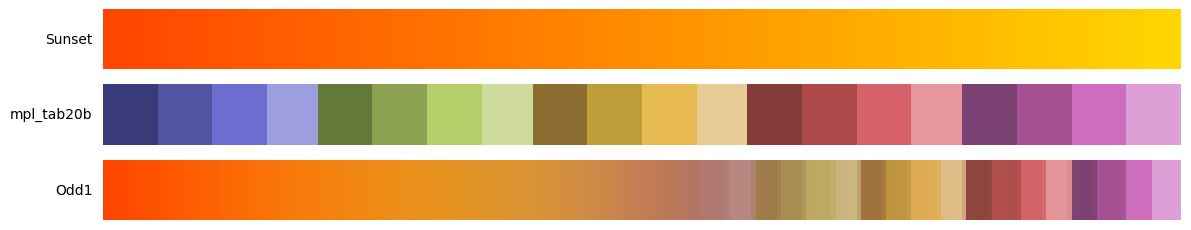
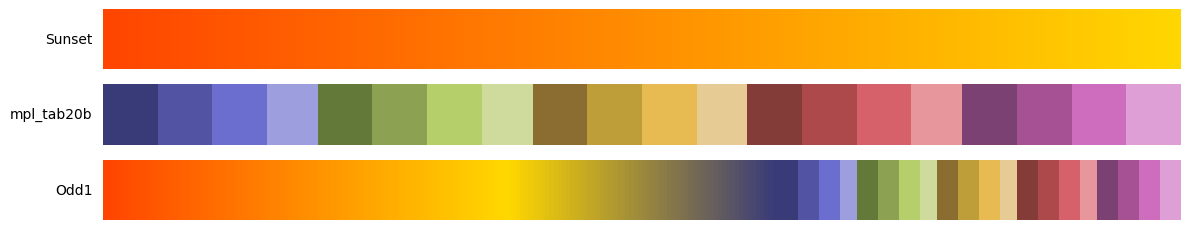
:scroll: add complex concat example

Changed region(s): [[0.2796, 0.6696, 0.9941, 0.9739]]

diff --git a/src/peepomap/__main__.py b/src/peepomap/__main__.py
@@ -74,7 +74,7 @@ def plot_create_diverging_demo() -> None:
     """Generate create_diverging demo image for README."""
     cool_warm = peepomap.create_diverging("Blues_r", "Reds", name="Cool Warm")
     rdylbl = peepomap.create_diverging(
-        "Reds_r", "Blues", center="yellow", diffusion=0.3, name="RdYlBl"
+        "Reds_r", "Blues", center="yellow", blend=0.3, name="RdYlBl"
     )
 
     save_demo_images("create_diverging_demo", [cool_warm, rdylbl])
@@ -82,9 +82,9 @@ def plot_create_diverging_demo() -> None:
 
 def plot_create_concat_demo() -> None:
     """Generate concat demo images for README."""
-    div1 = peepomap.create_diverging("Blues_r", "Reds", diffusion=0.3, name="div1")
-    div2 = peepomap.create_diverging("Purples_r", "Oranges", diffusion=0.3, name="div2")
-    combined = peepomap.concat(div1, div2, diffusion=0.5, n=512, name="Fusion")
+    div1 = peepomap.create_linear("blue", "red", name="div1")
+    div2 = peepomap.create_linear("purple", "orange", name="div2")
+    combined = peepomap.concat(div1, div2, blend=0.25, n=512, name="Fusion")
 
     save_demo_images("concat_demo", [div1, div2, combined])
 
@@ -93,7 +93,7 @@ def plot_create_concat_odd() -> None:
     """Generate odd concat demo images for README."""
     sunset = peepomap.create_linear("gold", "orangered", name="Sunset", reverse=True)
     tab20b = peepomap.get("tab20b")
-    odd = peepomap.concat(sunset, tab20b, diffusion=0.5, name="Odd1")
+    odd = peepomap.concat(sunset, tab20b, blend=0.25, name="Odd1")
 
     save_demo_images("concat_odd_demo", [sunset, tab20b, odd])
 
@@ -136,6 +136,33 @@ def plot_shift_demo() -> None:
     save_demo_images("shift_demo", [original, shift_25, shift_50, shift_75])
 
 
+def plot_complex_concat_demo() -> None:
+    """Generate complex concat demo images for README."""
+    greys = peepomap.create_linear("white", "grey", name="Greys")
+    greens = peepomap.create_linear("lightgreen", "green", name="Greens")
+    blues = peepomap.create_linear("lightblue", "darkblue", name="Blues")
+    goldens = peepomap.create_linear("lightyellow", "darkgoldenrod", name="Goldens")
+    reds = peepomap.create_linear("pink", "darkred", name="Reds")
+    pinks = peepomap.create_linear("lightpink", "darkmagenta", name="Pinks")
+    cyans = peepomap.create_linear("lightcyan", "darkcyan", name="Cyans")
+
+    tria = peepomap.concat(
+        greys,
+        greens,
+        blues,
+        goldens,
+        reds,
+        pinks,
+        cyans,
+        name="Tria",
+        blend=0.45,
+    )
+
+    save_demo_images(
+        "complex_concat_demo", [greys, greens, blues, goldens, reds, pinks, cyans, tria]
+    )
+
+
 if __name__ == "__main__":
     plot_colormaps_demo()
     plot_combine_demo()
@@ -146,3 +173,4 @@ if __name__ == "__main__":
     plot_adjust_demo()
     plot_truncate_demo()
     plot_shift_demo()
+    plot_complex_concat_demo()

diff --git a/README.md b/README.md
@@ -79,7 +79,7 @@ ocean_sunset = peepomap.create_linear("navy", "crimson", name="Ocean Sunset")
 
 ### Create Diverging Colormaps
 
-Build diverging colormaps with optional center colors and diffusion:
+Build diverging colormaps with optional center colors and blend:
 
 ```python
 import peepomap
@@ -87,9 +87,9 @@ import peepomap
 # Simple diverging colormap
 cool_warm = peepomap.create_diverging("Blues_r", "Reds", name="Cool Warm")
 
-# Diverging with custom center color and diffusion
+# Diverging with custom center color and blend
 rdylbl = peepomap.create_diverging(
-    "Reds_r", "Blues", center="yellow", diffusion=0.3, name="RdYlBl"
+    "Reds_r", "Blues", center="yellow", blend=0.3, name="RdYlBl"
 )
 ```
 
@@ -98,18 +98,33 @@ rdylbl = peepomap.create_diverging(
 
 ### Concatenate Colormaps
 
-Join multiple colormaps end-to-end with optional blending:
+Join multiple colormaps end-to-end with equal space allocation. Each colormap gets an equal portion of the color space:
 
 ```python
 import peepomap
 
-div1 = peepomap.create_diverging("Blues_r", "Reds", diffusion=0.3, name="div1")
-div2 = peepomap.create_diverging("Purples_r", "Oranges", diffusion=0.3, name="div2")
-combined = peepomap.concat(div1, div2, diffusion=0.5, n=512, name="Fusion")
+# Sharp boundaries (no blending)
+cmap = peepomap.concat("viridis", "plasma", "inferno")
+
+# Smooth blending between colormaps (10% of space for transitions)
+cmap = peepomap.concat("viridis", "plasma", blend=0.1)
+
+# Custom blend zone size (20% of total)
+cmap = peepomap.concat("viridis", "plasma", blend=0.2)
 ```
 
-![concat_demo_dark](https://raw.githubusercontent.com/ericmiguel/peepomap/refs/heads/main/static/concat_demo_dark.png#gh-dark-mode-only)
-![concat_demo_light](https://raw.githubusercontent.com/ericmiguel/peepomap/refs/heads/main/static/concat_demo_light.png#gh-light-mode-only)
+You can also concatenate custom colormaps:
+
+```python
+import peepomap
+
+div1 = peepomap.create_linear("blue", "red", name="div1")
+div2 = peepomap.create_linear("purple", "orange", name="div2")
+combined = peepomap.concat(div1, div2, blend=0.25, n=512, name="Fusion")
+```
+
+![concat_demo_dark](https://raw.githubusercontent.com/ericmiguel/peepomap/main/static/concat_demo_dark.png#gh-dark-mode-only)
+![concat_demo_light](https://raw.githubusercontent.com/ericmiguel/peepomap/main/static/concat_demo_light.png#gh-light-mode-only)
 
 You can even concatenate very different types of colormaps:
 
@@ -118,11 +133,34 @@ import peepomap
 
 sunset = peepomap.create_linear("gold", "orangered", name="Sunset", reverse=True)
 tab20b = peepomap.get("tab20b")
-odd = peepomap.concat(sunset, tab20b, diffusion=0.5, name="Odd1")
+odd = peepomap.concat(sunset, tab20b, blend=0.25, name="Odd1")
 ```
 
-![concat_odd_demo_dark](https://raw.githubusercontent.com/ericmiguel/peepomap/refs/heads/main/static/concat_odd_demo_dark.png#gh-dark-mode-only)
-![concat_odd_demo_light](https://raw.githubusercontent.com/ericmiguel/peepomap/refs/heads/main/static/concat_odd_demo_light.png#gh-light-mode-only)
+![concat_odd_demo_dark](https://raw.githubusercontent.com/ericmiguel/peepomap/main/static/concat_odd_demo_dark.png#gh-dark-mode-only)
+![concat_odd_demo_light](https://raw.githubusercontent.com/ericmiguel/peepomap/main/static/concat_odd_demo_light.png#gh-light-mode-only)
+
+For more complex visualizations, you can concatenate many colormaps at once:
+
+```python
+import peepomap
+
+greys = peepomap.create_linear("white", "grey", name="Greys")
+greens = peepomap.create_linear("lightgreen", "green", name="Greens")
+blues = peepomap.create_linear("lightblue", "darkblue", name="Blues")
+goldens = peepomap.create_linear("lightyellow", "darkgoldenrod", name="Goldens")
+reds = peepomap.create_linear("pink", "darkred", name="Reds")
+pinks = peepomap.create_linear("lightpink", "darkmagenta", name="Pinks")
+cyans = peepomap.create_linear("lightcyan", "darkcyan", name="Cyans")
+
+tria = peepomap.concat(
+    greys, greens, blues, goldens, reds, pinks, cyans,
+    name="Tria",
+    blend=0.45,
+)
+```
+
+![complex_concat_demo_dark](https://raw.githubusercontent.com/ericmiguel/peepomap/main/static/complex_concat_demo_dark.png#gh-dark-mode-only)
+![complex_concat_demo_light](https://raw.githubusercontent.com/ericmiguel/peepomap/main/static/complex_concat_demo_light.png#gh-light-mode-only)
 
 ### Adjust Colormaps
 
@@ -187,6 +225,55 @@ shift_25 = peepomap.shift(hsv, start=0.25, cmap_name="HSV Shift 0.25")
 
 ![shift_demo_dark](https://raw.githubusercontent.com/ericmiguel/peepomap/refs/heads/main/static/shift_demo_dark.png#gh-dark-mode-only)
 ![shift_demo_light](https://raw.githubusercontent.com/ericmiguel/peepomap/refs/heads/main/static/shift_demo_light.png#gh-light-mode-only)
+
+### Export Colormaps
+
+Export custom colormaps as `ColormapInfo` objects for persistence or sharing:
+
+```python
+import peepomap
+
+# Create a custom colormap
+custom = peepomap.concat("viridis", "plasma", blend=0.1)
+
+# Export as ColormapInfo object
+info = peepomap.export(
+    custom,
+    n=32,
+    name="viridis_plasma",
+    cmap_type="sequential",
+    description="Viridis blended with plasma"
+)
+
+# Access the colormap data
+print(info.name)        # "viridis_plasma"
+print(info.colors)      # List of RGB color values
+print(info.cmap_type)   # "sequential"
+
+# Save Python code representation to file
+peepomap.export(
+    custom,
+    name="viridis_plasma",
+    cmap_type="sequential",
+    description="Viridis blended with plasma",
+    output_file="my_colormap.py"
+)
+```
+
+The `output_file` parameter generates Python code ready to paste into your colormap registry:
+
+```python
+"viridis_plasma": ColormapInfo(
+    name="viridis_plasma",
+    colors=[
+        [0.267004, 0.004874, 0.329415],
+        [0.282623, 0.140926, 0.457517],
+        # ... more colors ...
+    ],
+    cmap_type="sequential",
+    description="Viridis blended with plasma",
+),
+```
 
 ## 🏗 Development
 
